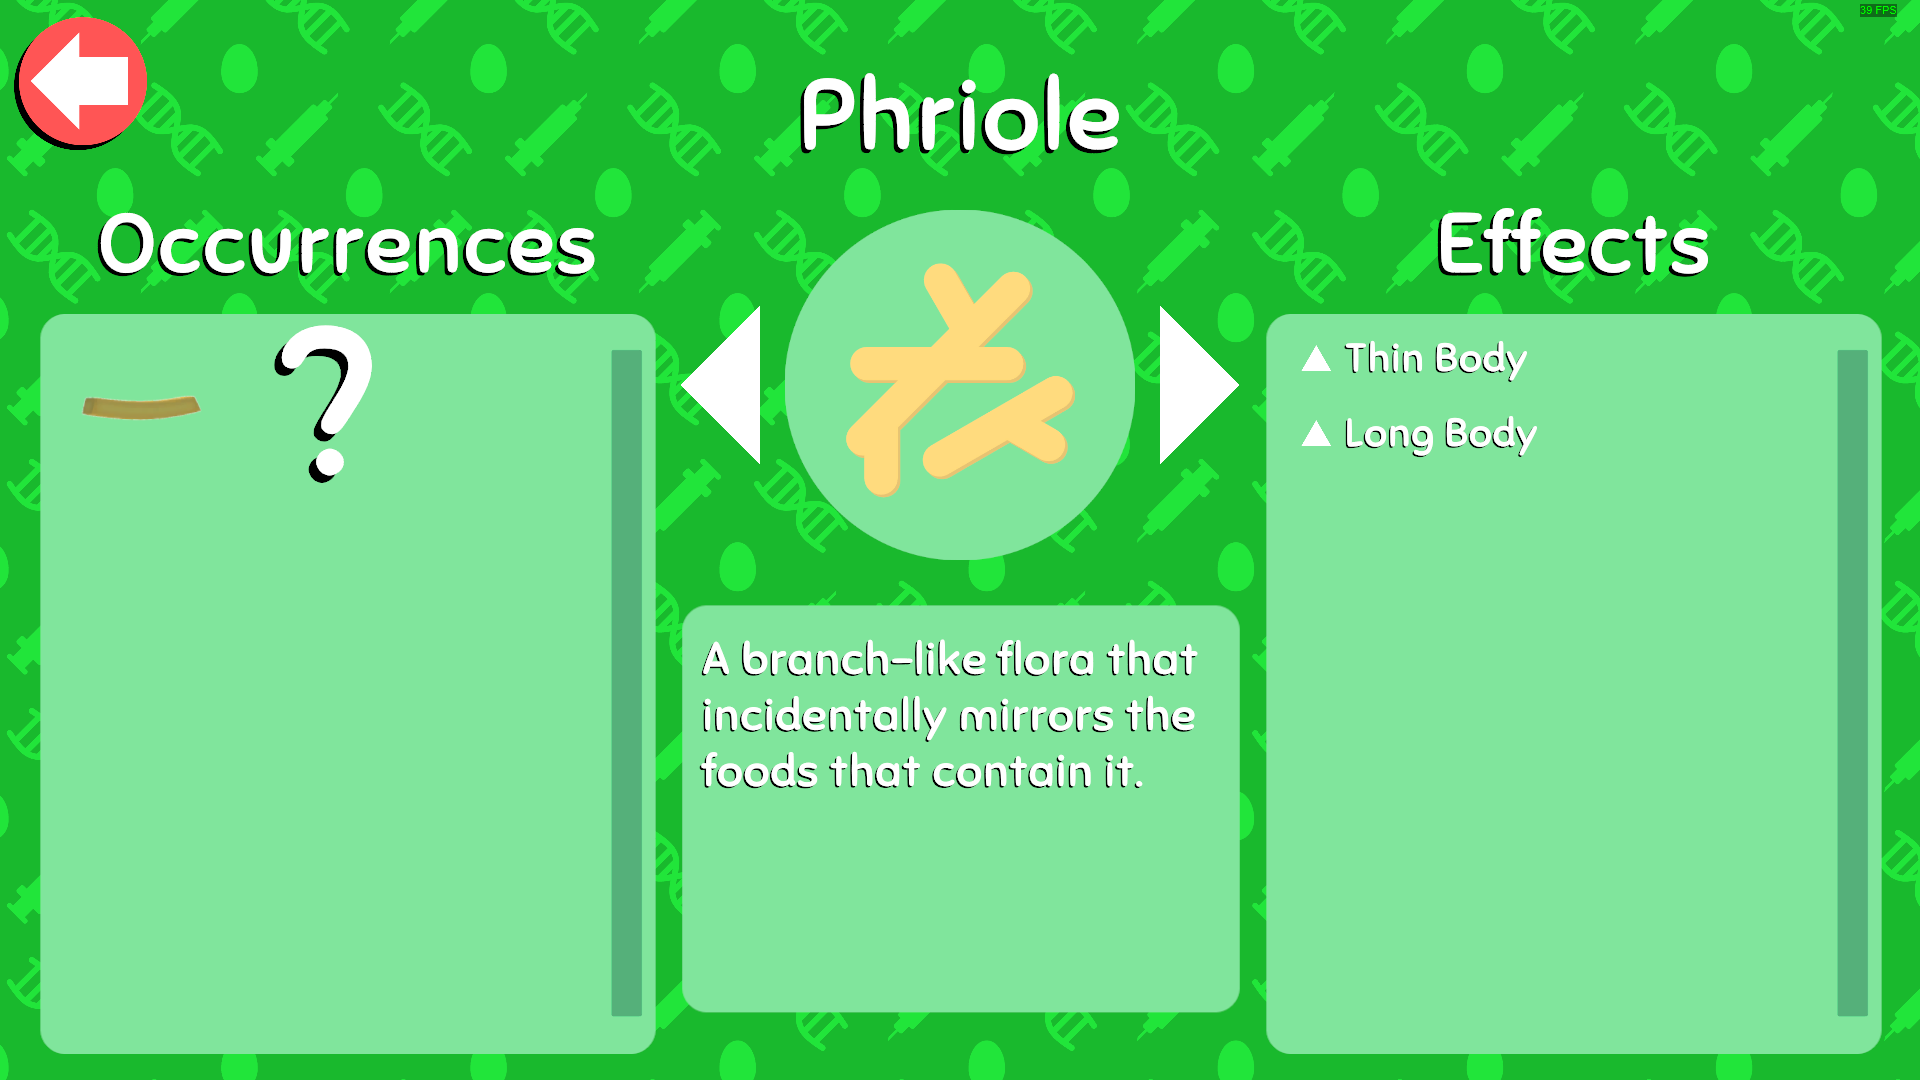
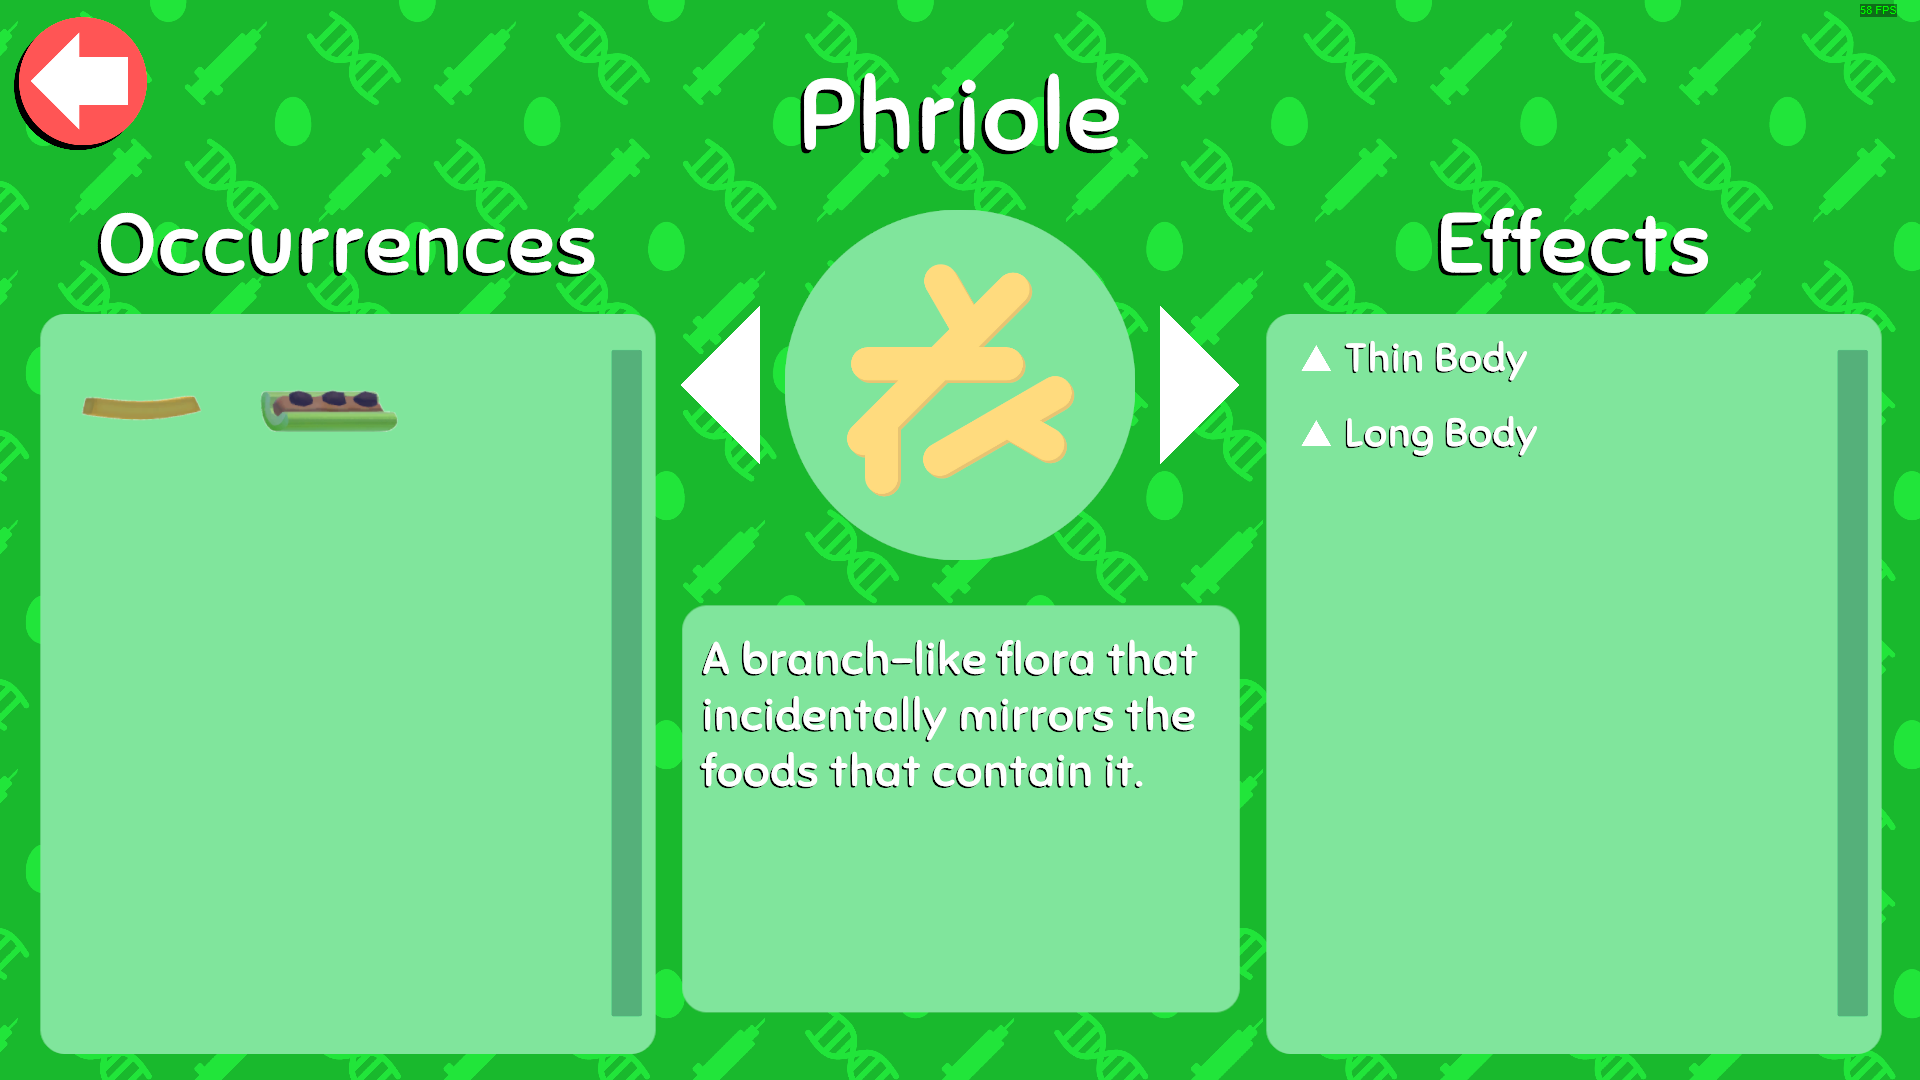
added ants on a log

diff --git a/src/flora.ts b/src/flora.ts
@@ -348,7 +348,7 @@ export const phenobacti: Flora = {
   image: "flora_3_4",
   description: "Crystalized flora with a mysterious past.",
   foods: [
-    food.unknown,
+    food.antsOnALog,
     food.mochiBall,
     food.chickenNugget,
     food.boxOfRaisins,
@@ -363,7 +363,7 @@ export const phriole: Flora = {
   image: "flora_3_5",
   description:
     "A branch-like flora that incidentally mirrors the foods that contain it.",
-  foods: [food.frenchFry, food.unknown],
+  foods: [food.frenchFry, food.antsOnALog],
   effects: [effect.thinBody, effect.longBody],
   rarities: [triangle, triangle],
 };

diff --git a/src/food.ts b/src/food.ts
@@ -9,6 +9,10 @@ export const alienFruit: Food = {
   name: "Alien Fruit",
   image: "alien-fruit",
 };
+export const antsOnALog: Food = {
+  name: "Ants on a Log",
+  image: "ants-on-a-log",
+};
 export const appleSlice: Food = {
   name: "Apple Slice",
   image: "apple-slice",
@@ -259,6 +263,7 @@ export const unknown: Food = {
 
 export const foods: Food[] = [
   alienFruit,
+  antsOnALog,
   appleSlice,
   babyTooth,
   banana,

diff --git a/src/images.py b/src/images.py
@@ -129,6 +129,7 @@ def crop_grid_from_folder(source_folder, output_folder, low_variance_output_fold
         "flora-3-1-food-0-2": "gourd",
         "flora-3-2-food-0-0": "burnt-dog-biscuit",
         "flora-3-3-food-0-0": "insulation-tuft",
+        "flora-3-4-food-0-0": "ants-on-a-log",
         "flora-3-4-food-0-2": "chicken-nugget",
         "flora-3-5-food-0-0": "french-fry",
         "flora-3-7-food-0-0": "sample-cup",
